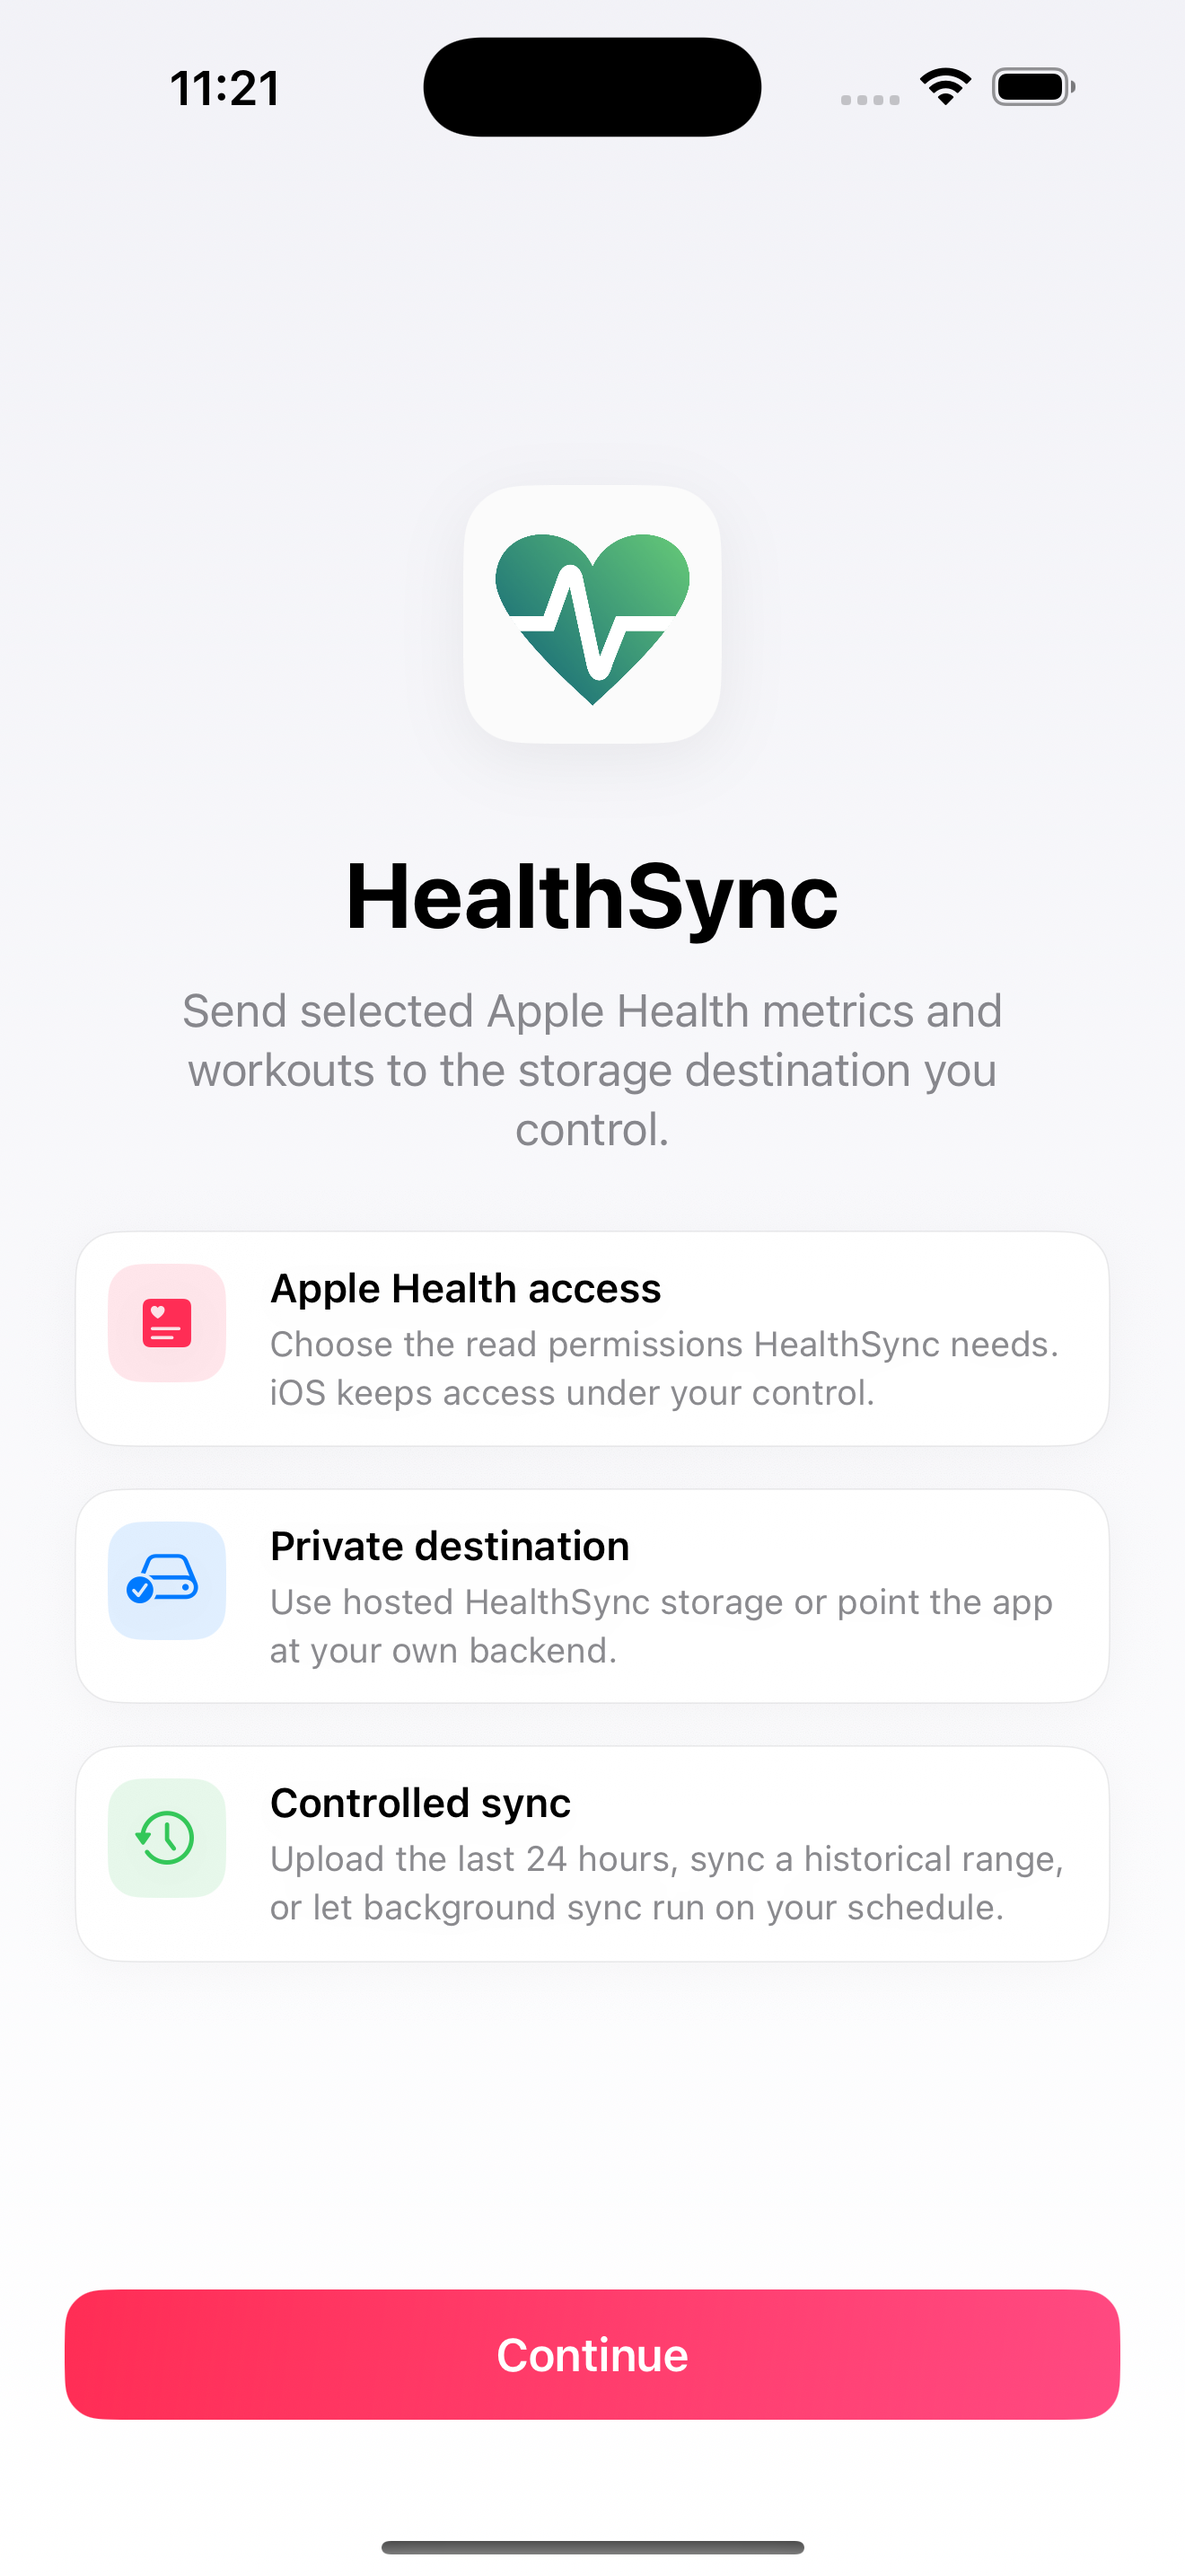
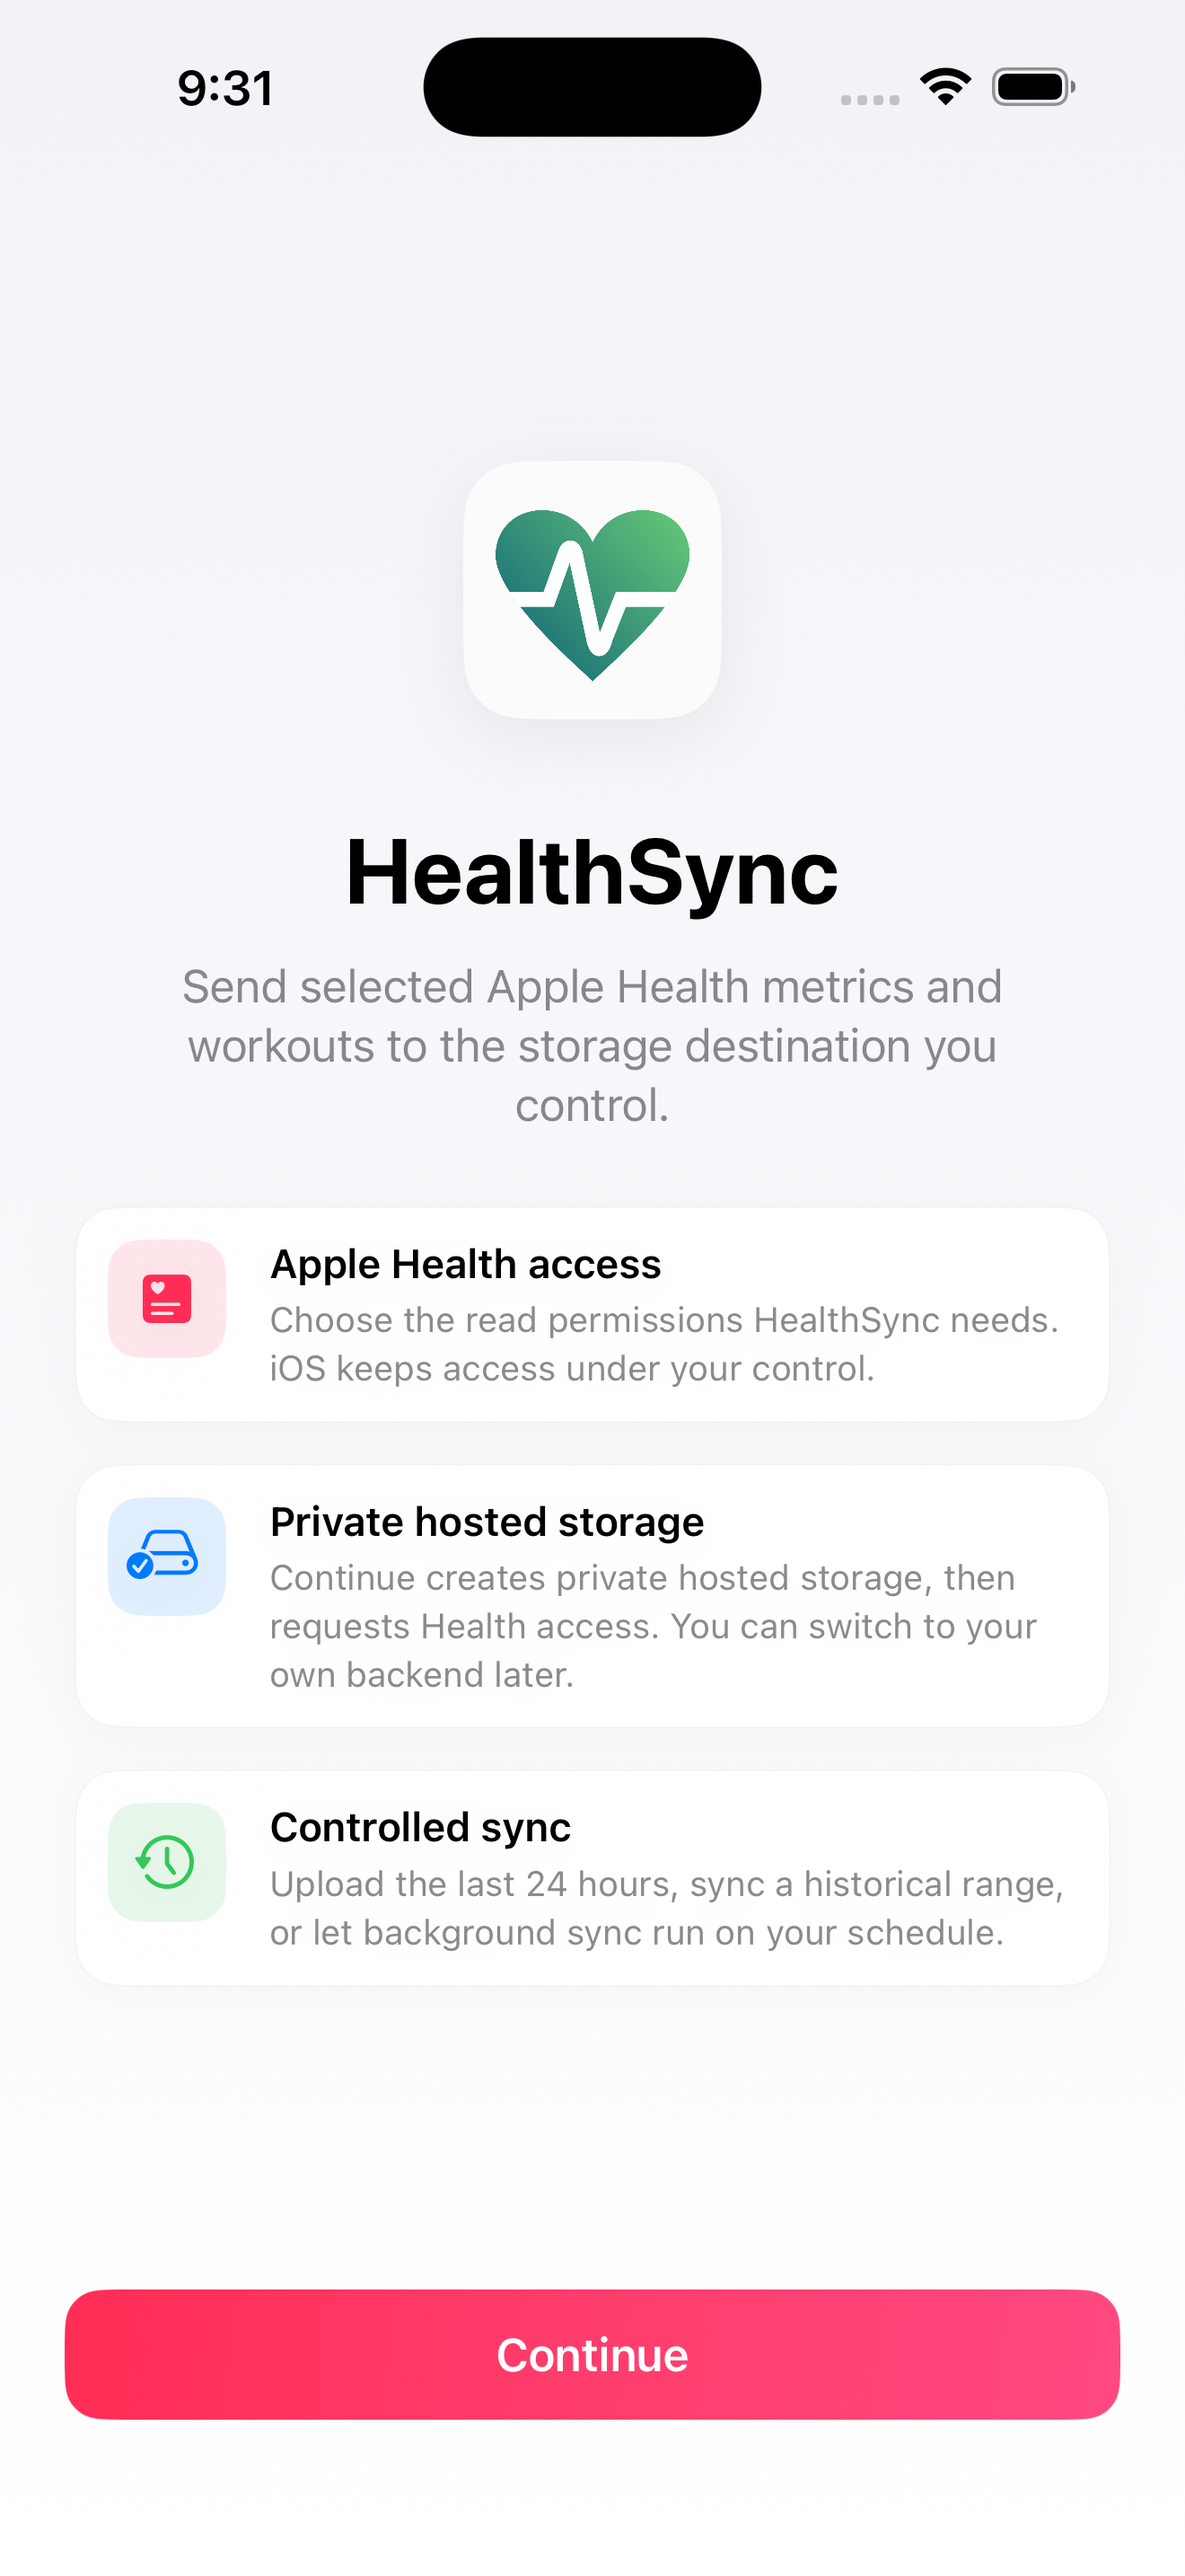
Fix clean-install HealthKit sync for App Review

diff --git a/HealthSync/Services/HealthKitManager.swift b/HealthSync/Services/HealthKitManager.swift
@@ -74,6 +74,20 @@ enum HealthKitManagerError: LocalizedError {
     }
 }
 
+enum HealthKitReadErrorPolicy {
+    static func shouldSkipType(_ error: Error) -> Bool {
+        if let managerError = error as? HealthKitManagerError,
+           case .authorizationNotDetermined = managerError {
+            return true
+        }
+        if let healthKitError = error as? HKError,
+           healthKitError.code == .errorAuthorizationNotDetermined {
+            return true
+        }
+        return false
+    }
+}
+
 final class HealthKitManager {
     private let healthStore: HKHealthStore
     private var observerQueries: [HKObserverQuery] = []
@@ -112,17 +126,21 @@ final class HealthKitManager {
         var result = HealthKitFetchResult.empty
         for type in types {
             guard HealthKitTypeRegistry.objectType(for: type) != nil else { continue }
-            switch type {
-            case .sleepAnalysis:
-                result.sleepSamples += try await sleepSamples(start: start, end: end)
-            case .workouts:
-                result.workoutSamples += try await workoutSamples(start: start, end: end)
-            default:
-                if type.kind == .category {
-                    result.categorySamples += try await categorySamples(for: type, start: start, end: end)
-                } else {
-                    result.quantitySamples += try await quantitySamples(for: type, start: start, end: end)
+            do {
+                switch type {
+                case .sleepAnalysis:
+                    result.sleepSamples += try await sleepSamples(start: start, end: end)
+                case .workouts:
+                    result.workoutSamples += try await workoutSamples(start: start, end: end)
+                default:
+                    if type.kind == .category {
+                        result.categorySamples += try await categorySamples(for: type, start: start, end: end)
+                    } else {
+                        result.quantitySamples += try await quantitySamples(for: type, start: start, end: end)
+                    }
                 }
+            } catch {
+                guard HealthKitReadErrorPolicy.shouldSkipType(error) else { throw error }
             }
         }
         return result
@@ -135,24 +153,28 @@ final class HealthKitManager {
         var result = HealthKitFetchResult.empty
         for type in types {
             guard HealthKitTypeRegistry.objectType(for: type) != nil else { continue }
-            switch type {
-            case .sleepAnalysis:
-                result.sleepSamples += try await sleepSamples(start: start, end: end)
-            case .workouts:
-                result.workoutSamples += try await workoutSamples(start: start, end: end)
-            default:
-                if type.kind == .category {
-                    result.categorySamples += try await categorySamples(for: type, start: start, end: end)
-                } else if let strategy = backfillAggregationStrategy(for: type) {
-                    result.quantitySamples += try await aggregatedQuantitySamples(
-                        for: type,
-                        start: start,
-                        end: end,
-                        strategy: strategy
-                    )
-                } else {
-                    result.quantitySamples += try await quantitySamples(for: type, start: start, end: end)
+            do {
+                switch type {
+                case .sleepAnalysis:
+                    result.sleepSamples += try await sleepSamples(start: start, end: end)
+                case .workouts:
+                    result.workoutSamples += try await workoutSamples(start: start, end: end)
+                default:
+                    if type.kind == .category {
+                        result.categorySamples += try await categorySamples(for: type, start: start, end: end)
+                    } else if let strategy = backfillAggregationStrategy(for: type) {
+                        result.quantitySamples += try await aggregatedQuantitySamples(
+                            for: type,
+                            start: start,
+                            end: end,
+                            strategy: strategy
+                        )
+                    } else {
+                        result.quantitySamples += try await quantitySamples(for: type, start: start, end: end)
+                    }
                 }
+            } catch {
+                guard HealthKitReadErrorPolicy.shouldSkipType(error) else { throw error }
             }
         }
         return result
@@ -171,7 +193,15 @@ final class HealthKitManager {
                 continue
             }
             let anchor = try anchors[type].flatMap(decodeAnchor)
-            let (samples, deletedObjects, newAnchor) = try await anchoredSamples(type: sampleType, anchor: anchor)
+            let samples: [HKSample]
+            let deletedObjects: [HKDeletedObject]
+            let newAnchor: HKQueryAnchor?
+            do {
+                (samples, deletedObjects, newAnchor) = try await anchoredSamples(type: sampleType, anchor: anchor)
+            } catch {
+                guard HealthKitReadErrorPolicy.shouldSkipType(error) else { throw error }
+                continue
+            }
             guard let newAnchor else {
                 throw HealthKitManagerError.missingAnchor
             }
@@ -221,6 +251,9 @@ final class HealthKitManager {
                 observerSampleTypes.append(sampleType)
             } catch {
                 healthStore.stop(query)
+                if HealthKitReadErrorPolicy.shouldSkipType(error) {
+                    continue
+                }
                 await stopObserverQueries(disabling: types)
                 throw error
             }

diff --git a/Tests/HealthSyncTests/APIClientTests.swift b/Tests/HealthSyncTests/APIClientTests.swift
@@ -275,6 +275,24 @@ final class HealthKitTypeRegistryTests: XCTestCase {
     }
 }
 
+final class HealthKitReadErrorPolicyTests: XCTestCase {
+    func testSkipsOnlyUndeterminedReadAuthorization() {
+        XCTAssertTrue(
+            HealthKitReadErrorPolicy.shouldSkipType(
+                HealthKitManagerError.authorizationNotDetermined
+            )
+        )
+        XCTAssertFalse(
+            HealthKitReadErrorPolicy.shouldSkipType(
+                HealthKitManagerError.healthDataUnavailable
+            )
+        )
+        XCTAssertFalse(
+            HealthKitReadErrorPolicy.shouldSkipType(APIClientError.invalidResponse)
+        )
+    }
+}
+
 final class HealthKitManagerErrorTests: XCTestCase {
     func testAuthorizationNotDeterminedMessageUsesNeutralPermissionAction() {
         XCTAssertEqual(

diff --git a/docs/release/app-review-resubmission.md b/docs/release/app-review-resubmission.md
@@ -2,33 +2,34 @@
 
 Review submission: `afac4317-5834-4191-97a6-b29bcfde6214`
 Rejected build: `1.0 (6)`
-Replacement build: `1.0 (7)`
+Replacement build: `1.0 (9)`
 
 ## App Store Connect metadata
 
 - Subtitle: `Private Health Data Sync`
 - Replacement onboarding screenshot: `screenshots/appstore/01-onboarding.png`
-- Select build `1.0 (7)` for the existing app version before resubmitting.
+- Select build `1.0 (9)` for the existing app version before resubmitting.
 - Paste the App Review notes below into **App Review Information**.
-- Do not send the App Review reply until every physical-iPhone check is complete.
+- Do not claim physical-device verification in the App Review reply unless every physical-iPhone check is complete.
 
 ## Root cause and fix
 
 The rejected clean-install build defaulted to **My own backend** without a backend URL or token. The dashboard still exposed **Sync Last 24 Hours**, so tapping the app's primary action necessarily produced a missing-configuration error even though the review device had Health access and an active internet connection.
 
-Build 7 fixes the first-run contract:
+Build 9 fixes the first-run contract:
 
 - New installations explicitly disclose and default to private hosted HealthSync storage.
 - Tapping **Continue** provisions the private hosted workspace before requesting Health read access.
 - Hosted storage is automatically repaired before a manual 24-hour sync if its local credentials are missing.
 - Users can still switch to **My own backend** in Settings.
 - Sync reports an explicit success or no-data result instead of a configuration error on the default path.
+- HealthKit categories whose read authorization is still undetermined are skipped without failing approved categories or the entire sync.
 
 ## Clean-install release verification
 
 Run these checks using the archived Release build on a physical iPhone:
 
-- [ ] Delete HealthSync and install build `1.0 (7)` from TestFlight.
+- [ ] Delete HealthSync and install build `1.0 (9)` from TestFlight.
 - [ ] Confirm onboarding says that Continue creates private hosted storage.
 - [ ] Tap **Continue** on an active internet connection and confirm the native Health permission sheet appears after setup.
 - [ ] Grant read access and confirm the dashboard shows **Storage Destination: Hosted**.
@@ -42,15 +43,16 @@ Run these checks using the archived Release build on a physical iPhone:
 
 ## Verification record
 
-Completed locally on July 15, 2026:
+Completed locally on July 28, 2026:
 
-- [x] Build number is `1.0 (7)` in Debug and Release configurations.
+- [x] Build number is `1.0 (9)` in Debug and Release configurations.
 - [x] HealthKit authorization is read-only: the app requests an empty share set. The bundle includes both HealthKit purpose keys because App Store Connect requires them when the HealthKit entitlement is present; the update-purpose text explicitly states that HealthSync never writes or modifies Health data.
 - [x] Clean-install Release launch shows the private hosted storage disclosure and neutral **Continue** action.
 - [x] Tapping **Continue** on a clean simulator provisions hosted storage before presenting the native Health permission sheet.
-- [x] Swift test suite: 65 passed, 0 failed.
+- [x] Clean iOS 26.3 simulator flow granted Health read access and **Sync Last 24 Hours** ended with the expected no-data result rather than an authorization error.
+- [x] Swift test suite: 70 passed, 0 failed.
 - [x] Generic iPhone Release build using the iOS 26.5 SDK passed store bundle validation.
-- [x] Backend test suite: 19 passed, 0 failed.
+- [x] Backend test suite: 22 passed, 0 failed.
 - [x] Supabase function bundle and website production build passed.
 - [x] `Info.plist`, entitlements, and patch whitespace validation passed.
 
@@ -73,8 +75,8 @@ Hello App Review Team,
 
 Thank you for the report. We reproduced the issue from a clean installation. The cause was that build 1.0 (6) opened the dashboard with the app set to a custom backend, but no backend URL or token existed yet. Tapping Sync Last 24 Hours therefore displayed a configuration error.
 
-In build 1.0 (7), first-run setup now explicitly creates a private hosted storage destination before Health access is requested. After setup, Sync Last 24 Hours works without reviewer-supplied credentials and displays either a successful-sync result or a no-data result when the device has no matching samples. The custom-backend option remains available in Settings.
+In build 1.0 (9), first-run setup now explicitly creates a private hosted storage destination before Health access is requested. After setup, Sync Last 24 Hours works without reviewer-supplied credentials and displays either a successful-sync result or a no-data result when the device has no matching samples. Health data categories whose read authorization remains undetermined are skipped rather than failing the complete sync. The custom-backend option remains available in Settings.
 
-We tested the replacement build from a clean installation on an iPhone using an active internet connection and verified the first-run, permission, no-data, and successful-sync paths.
+We verified the replacement build from a clean installation using an active internet connection, granted Health read access, and confirmed the first-run and no-data paths complete without an error.
 
 Thank you for reviewing the updated submission.
